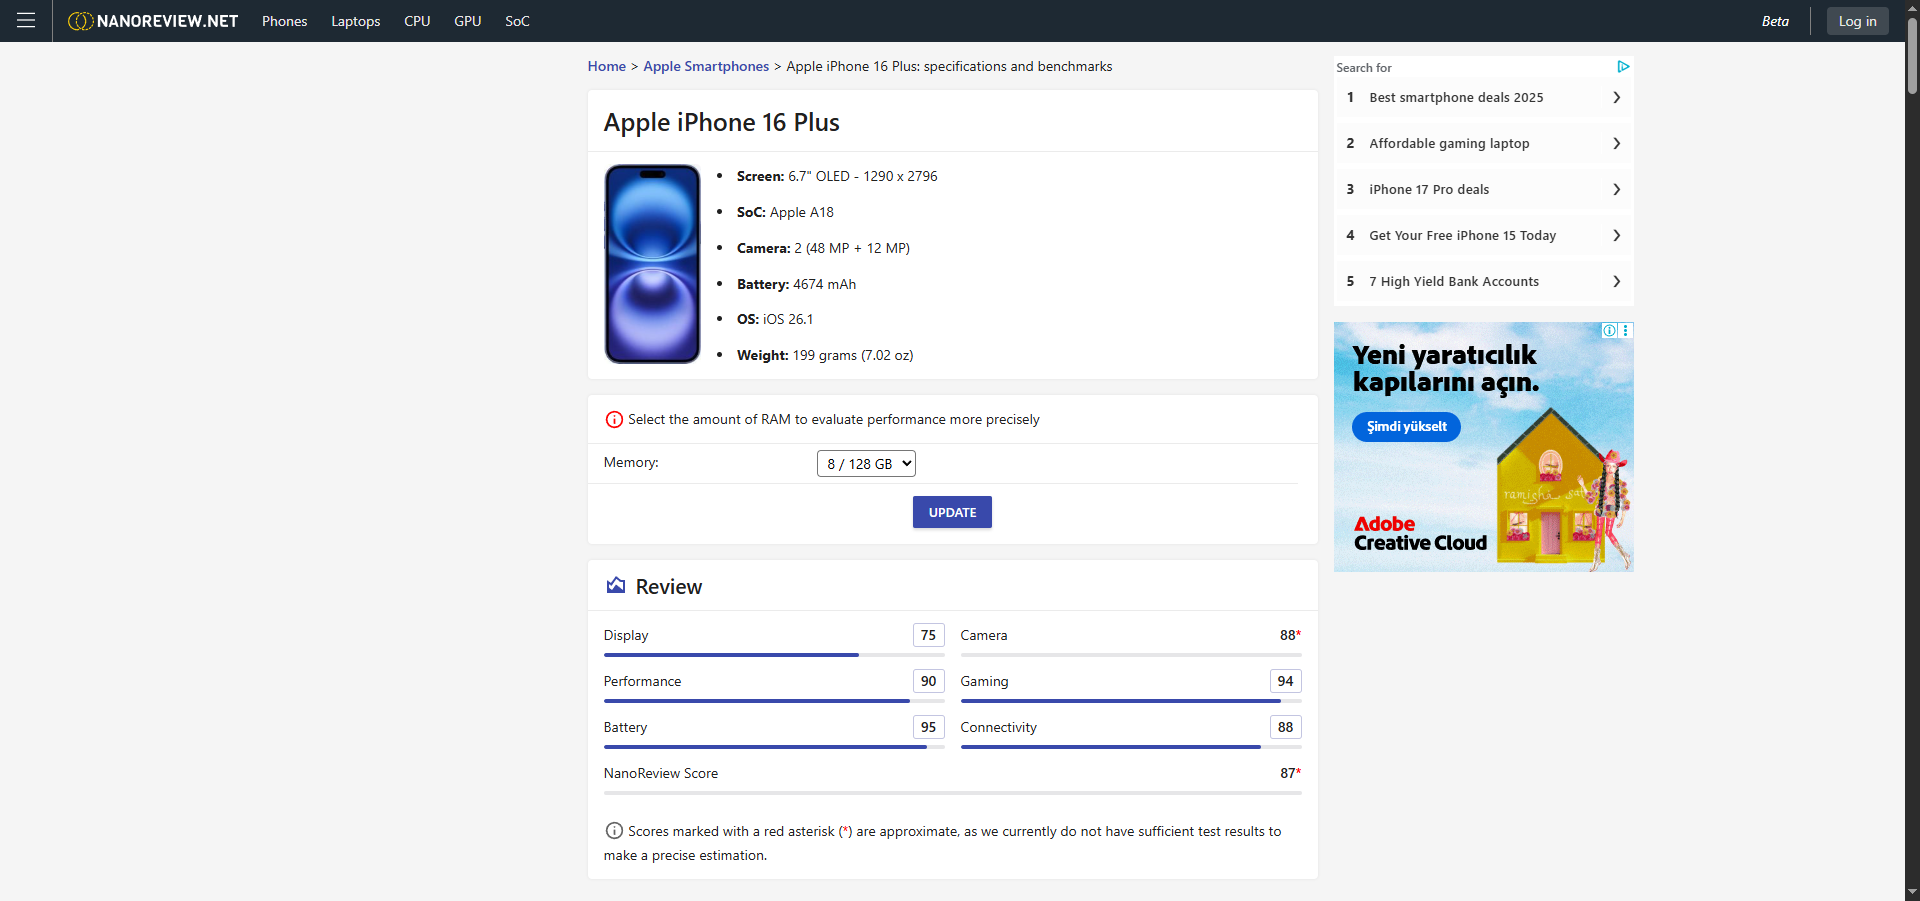
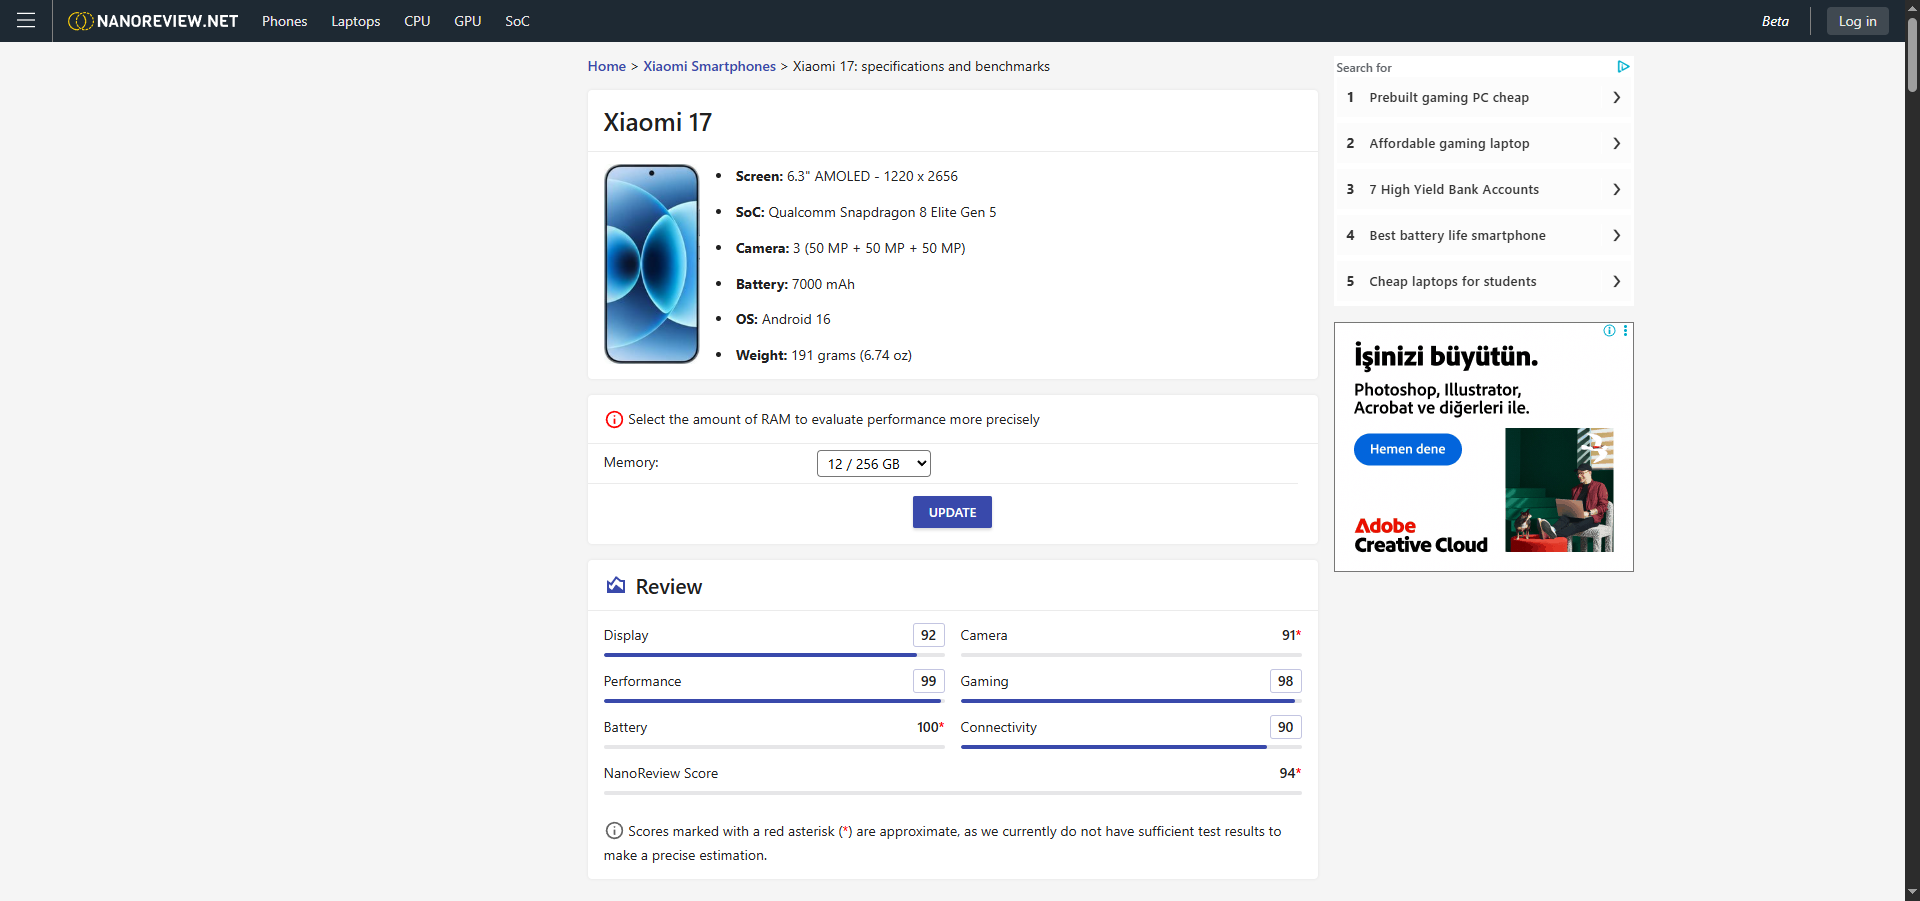
sa

diff --git a/backend/import_product.py b/backend/import_product.py
@@ -61,6 +61,9 @@ def fetch_nanoreview_selenium(url):
 def parse_nanoreview(html, url):
     soup = BeautifulSoup(html, 'lxml')
     
+    # Initialize Variants Combo globally for function
+    variants_combo = [] 
+
     # 1. Product Name - Relaxed Selector
     h1 = soup.find('h1', class_='page-title')
     if not h1:
@@ -85,24 +88,59 @@ def parse_nanoreview(html, url):
     
     # 3. Specs Extraction
     specs_list = []
+    
+    # Strategy A: Table Parsing (Details usually lower down)
     rows = soup.find_all('tr')
-    captured_keys = ["Display", "Camera", "Processor", "RAM", "Storage", "Battery", "OS", "Chipset", "Weight", "Dimensions"]
-    
-    specs_found = {}
-    variants_combo = [] # Stores ("12 GB", "256 GB") tuples
-    
-    # Strategy A: Table Parsing
     for row in rows:
         cols = row.find_all('td')
         if len(cols) == 2:
             key = cols[0].get_text(strip=True)
             val = cols[1].get_text(strip=True)
-            
             # Fuzzy match
-            for target in captured_keys:
-                if target.lower() in key.lower() and key not in specs_found:
-                     specs_found[key] = val
+            for target in ["Display", "Camera", "Processor", "RAM", "Storage", "Battery", "OS", "Chipset", "Weight", "Dimensions"]:
+                if target.lower() in key.lower():
                      specs_list.append(f"- **{key}:** {val}")
+
+    # Strategy B: Top Summary Box (The "Key Features" next to image)
+    # Usually: <ul><li>Screen: ...</li><li>SoC: ...</li></ul>
+    # We look for LI elements containing ":"
+    top_specs = soup.find_all('li')
+    captured_keys_summary = ["Screen", "SoC", "CPU", "Camera", "Battery", "OS", "Weight"]
+    
+    print(f"   🔎 Debug: Scanning {len(top_specs)} list items for specs...")
+    
+    for li in top_specs:
+        text = li.get_text(strip=True)
+        # Check format "Key: Value"
+        if ":" in text:
+            parts = text.split(":", 1)
+            key = parts[0].strip()
+            val = parts[1].strip()
+            
+            # Check if relevant
+            for target in captured_keys_summary:
+                if target.lower() in key.lower():
+                    # Prioritize this over table if duplicate? Or just append.
+                    # Usually these are the "Highlights"
+                    specs_list.insert(0, f"- **{key}:** {val}") # Add to top
+                    print(f"      -> Found Spec: {key} = {val}")
+
+    # Deduplicate specs list
+    specs_list = list(set(specs_list))
+    # Sort simple logic or keep order? Set messes order. 
+    # Let's simple dedupe preserving order
+    seen = set()
+    ordered_specs = []
+    for s in specs_list:
+        if s not in seen:
+            ordered_specs.append(s)
+            seen.add(s)
+    specs_list = ordered_specs
+    
+    if not specs_list:
+         print("   ⚠ Debug: No specs found in Table or Lists.")
+
+    # Strategy C: Memory Parsing (Variants)
 
     # Strategy B: Memory Dropdown/Label Parsing (Common in NanoReview)
     # Looking for text like "Memory: 12 / 256 GB"
@@ -169,10 +207,26 @@ def parse_nanoreview(html, url):
     colors = ["Siyah", "Beyaz", "Mavi", "Titanyum"] # Generic palette
     
     if variants_combo:
-        # We have specific combos like (12 GB, 256 GB)
-        print(f"   ✨ Detected Variants: {variants_combo}")
-        for ram, store in variants_combo:
-            variant_name = f"{clean_name} {ram}/{store}"
+         print(f"   ✨ Detected Variants: {variants_combo}")
+         for ram, store in variants_combo:
+            # variants_combo items already have " GB" suffix (e.g. "12 GB")
+            
+            # 1. Handle 1024 GB -> 1 TB
+            if "1024" in ram: 
+                ram_display = "1 TB"
+            else:
+                ram_display = ram # Keep "12 GB"
+            
+            if "1024" in store: 
+                store_display = "1 TB"
+            else:
+                store_display = store # Keep "256 GB"
+            
+            # Clean up potential double spaces
+            ram_display = ram_display.strip()
+            store_display = store_display.strip()
+            
+            variant_name = f"{clean_name} {ram_display}/{store_display}"
             product_variants.append({
                 "name": variant_name,
                 "slug": slugify(variant_name),
@@ -232,26 +286,38 @@ async def upsert_products(variants):
         price = (price // 100) * 100 + 99 
         
         # Check by slug
-        existing = supabase.table('products').select("id").eq('slug', v['slug']).execute()
+        existing = supabase.table('products').select("id, image").eq('slug', v['slug']).execute()
         
         payload = {
             "name": v['name'],
             "slug": v['slug'],
-            "image": v['image'],
+            # "image": v['image'], <-- Handle explicitly below
             "desc": v['desc'],
             "category": v['category'],
             "source": v['source'],
             "link": v['link'],
-            "price": price, # Added Price
+            "price": price, 
             "updated_at": "now()"
         }
         
         try:
             if existing.data:
                 pid = existing.data[0]['id']
+                existing_img = existing.data[0].get('image')
+                
+                # IMAGE PRESERVATION LOGIC:
+                # If DB has an image, and it's not empty, KEEP IT (Don't overwrite).
+                # Only overwrite if DB image is None/Empty.
+                if existing_img and len(existing_img) > 10:
+                     print("      -> Keeping existing manual image.")
+                else:
+                     payload["image"] = v['image'] # Use scraped
+                
                 print(f"      -> Updating ID: {pid} (Price: {price} TL)")
                 supabase.table('products').update(payload).eq('id', pid).execute()
             else:
+                # New Insert -> Must use scraped image
+                payload["image"] = v['image']
                 print(f"      -> Creating NEW (Price: {price} TL)")
                 supabase.table('products').insert(payload).execute()
             

diff --git a/backend/fix_db.py b/backend/fix_db.py
@@ -1,0 +1,69 @@
+import os
+import asyncio
+from slugify import slugify
+from dotenv import load_dotenv
+from supabase import create_client, Client
+
+load_dotenv(os.path.join(os.path.dirname(os.path.dirname(os.path.abspath(__file__))), '.env'))
+
+SUPABASE_URL = os.getenv("SUPABASE_URL")
+SUPABASE_KEY = os.getenv("SUPABASE_KEY")
+supabase: Client = create_client(SUPABASE_URL, SUPABASE_KEY)
+
+async def fix_database():
+    print("🚀 STARTING DB CLEANUP...")
+    
+    # 1. Fetch all products (pagination might be needed if > 1000, assuming < 1000 for now)
+    res = supabase.table('products').select("*").execute()
+    products = res.data
+    print(f"📦 Found {len(products)} products.")
+    
+    updated_count = 0
+    
+    for p in products:
+        original_name = p['name']
+        new_name = original_name
+        
+        # FIX 1: 1024 GB -> 1 TB
+        if "1024 GB" in new_name:
+            new_name = new_name.replace("1024 GB", "1 TB")
+        
+        # Also fix variants if they ended up like "12 GB GB" (Safety check)
+        if "GB GB" in new_name:
+             new_name = new_name.replace("GB GB", "GB")
+
+        # FIX 2: Slug Optimization
+        # Force re-slugify to ensure clean URLs
+        new_slug = slugify(new_name)
+        
+        # Check if changes needed
+        needs_update = False
+        if new_name != original_name:
+            print(f"   ✏  Renaming: '{original_name}' -> '{new_name}'")
+            needs_update = True
+        
+        if new_slug != p['slug']:
+            print(f"   🔗 Refeshing Link: {p['slug']} -> {new_slug}")
+            needs_update = True
+            
+        if needs_update:
+            # OPTIMIZED UPDATE: Explicitly EXCLUDE 'image' to preserve manual photos
+            payload = {
+                "name": new_name,
+                "slug": new_slug,
+                "updated_at": "now()"
+                # NO image field here!
+            }
+            
+            try:
+                supabase.table('products').update(payload).eq('id', p['id']).execute()
+                updated_count += 1
+            except Exception as e:
+                print(f"   ❌ Error updating {original_name}: {e}")
+
+    print(f"\n✅ CLEANUP COMPLETE. Updated {updated_count} products.")
+
+if __name__ == "__main__":
+    if os.name == 'nt':
+        asyncio.set_event_loop_policy(asyncio.WindowsSelectorEventLoopPolicy())
+    asyncio.run(fix_database())
